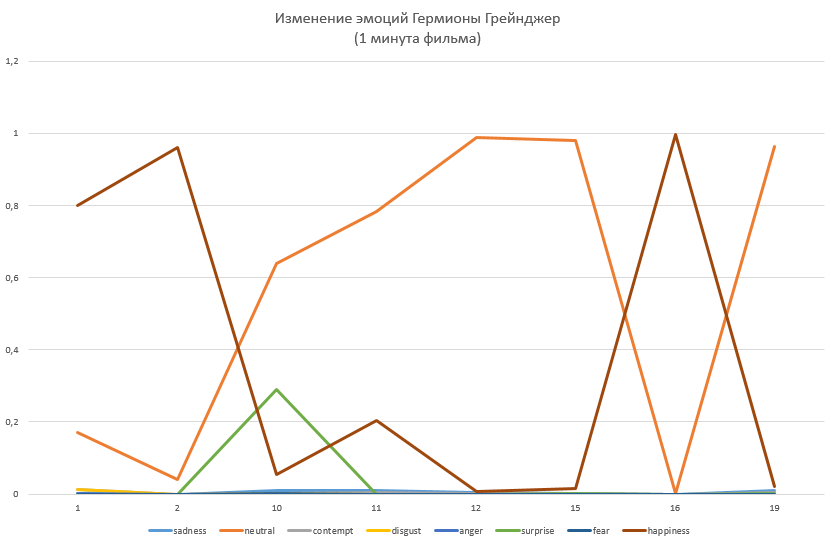
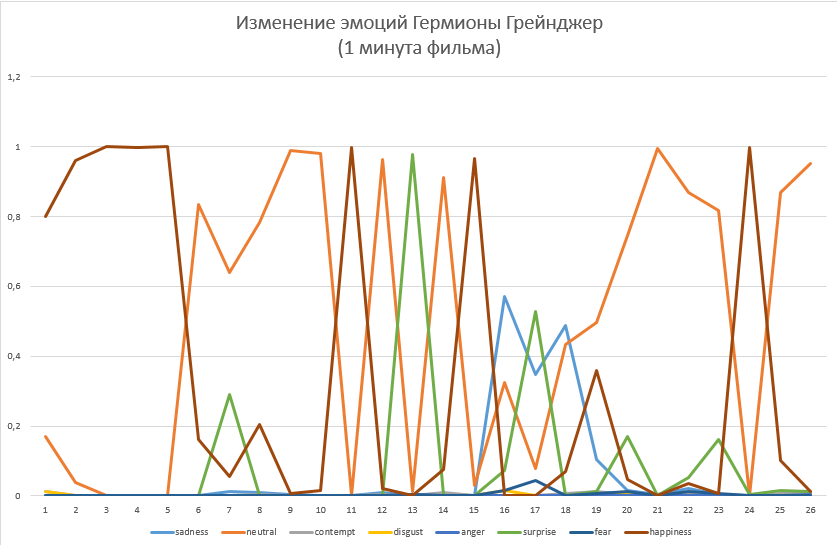
добавила картинку

diff --git a/program.py b/program.py
@@ -21,7 +21,7 @@ _url_detect = 'https://api.projectoxford.ai/face/v1.0/detect?returnFaceId=true&r
 
 _key_emotion = '57581a86d1854feeb598110c69eccb8a'  # primary key - emotion
 _key_video = '75e7945f0f4c460fb4039d967b4210af'  #  primary key - video
-_key_face = '8b457a38902d463f9a21af2620514c3a'   #  primary key - face
+_key_face = 'd889e25522734a708e584d45a8fc1a9c'   #  primary key - face
 
 _maxNumRetries = 10
 
@@ -199,26 +199,34 @@ def getEmotions(img):
     return result
 
 
-# createPersonGroup() # создали группу персонажей
-# a = createPerson()['personId']  # создали главного персонажа
-# addFace(a) # добавили лица персонажа
-# trainPersonGroup() # тренируем узнавать персонажа
-#
-# getTrainStatus() # проверяем, завершилась ли тренировка
+createPersonGroup() # создали группу персонажей
+a = createPerson()['personId']  # создали главного персонажа
+addFace(a) # добавили лица персонажа
+trainPersonGroup() # тренируем узнавать персонажа
 
-results = codecs.open('results.csv', 'w', 'utf-8')
+getTrainStatus() # проверяем, завершилась ли тренировка
+
+counter = 5
+results = codecs.open('results2.csv', 'w', 'utf-8')
 results.write('\t'.join(['picnum', 'sadness', 'neutral', 'contempt', 'disgust', 'anger', 'surprise', 'fear', 'happiness']) + '\r\n')
 for root, dirs, files in os.walk('images/movie_shots'):
     for f in files:
+        # if '23' not in f and '24' not in f and '25' not in f and '26' not in f:
+        print(f)
+        if counter > 10:
+            counter = 5
+            time.sleep(2 * counter)
+        counter += 2
+        img = os.path.join(root, f)
         try:
-            time.sleep(20)
-            img = os.path.join(root, f)
             people = findPerson(img)
-            main_hero = identify([d['faceId'] for d in people])
-            faceID = ''
-            faceRectangle = {}
-            print(main_hero)
-
+        except:
+            continue
+        main_hero = identify([d['faceId'] for d in people])
+        faceID = ''
+        faceRectangle = {}
+        print(main_hero)
+        if main_hero is not None:
             for i in main_hero:
                 if i['candidates']:
                     faceID = i['faceId']
@@ -233,16 +241,14 @@ for root, dirs, files in os.walk('images/movie_shots'):
                 for p in emotions:
                     if p['faceRectangle'] == faceRectangle:
                         r = '\t'.join(str(i) for i in [f, p['scores']['sadness'],
-                                                       p['scores']['neutral'],
-                                                       p['scores']['contempt'],
-                                                       p['scores']['disgust'],
-                                                       p['scores']['anger'],
-                                                       p['scores']['surprise'],
-                                                       p['scores']['fear'],
-                                                       p['scores']['happiness']])
+                                        p['scores']['neutral'],
+                                        p['scores']['contempt'],
+                                        p['scores']['disgust'],
+                                        p['scores']['anger'],
+                                        p['scores']['surprise'],
+                                         p['scores']['fear'],
+                                         p['scores']['happiness']])
                         results.write(r + '\r\n')
                         print(r)
-        except:
-            pass
 
 results.close()
